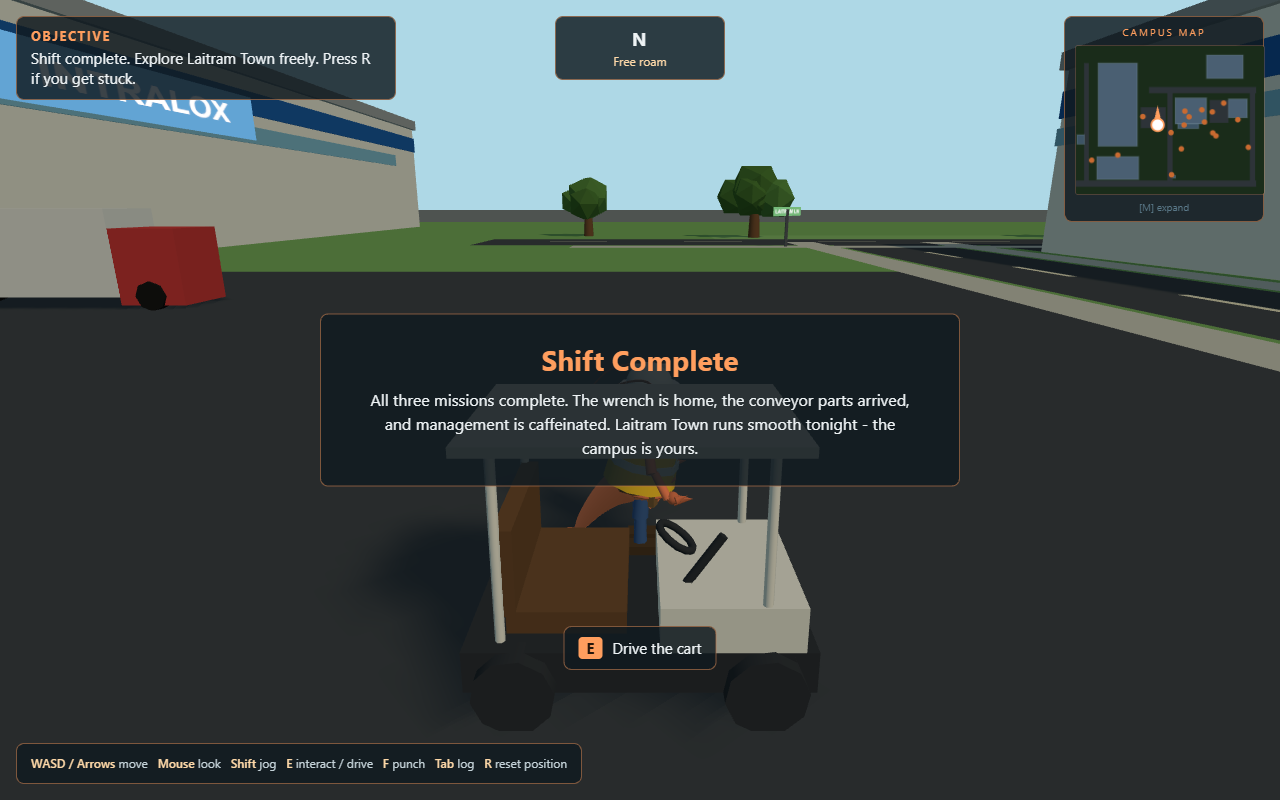
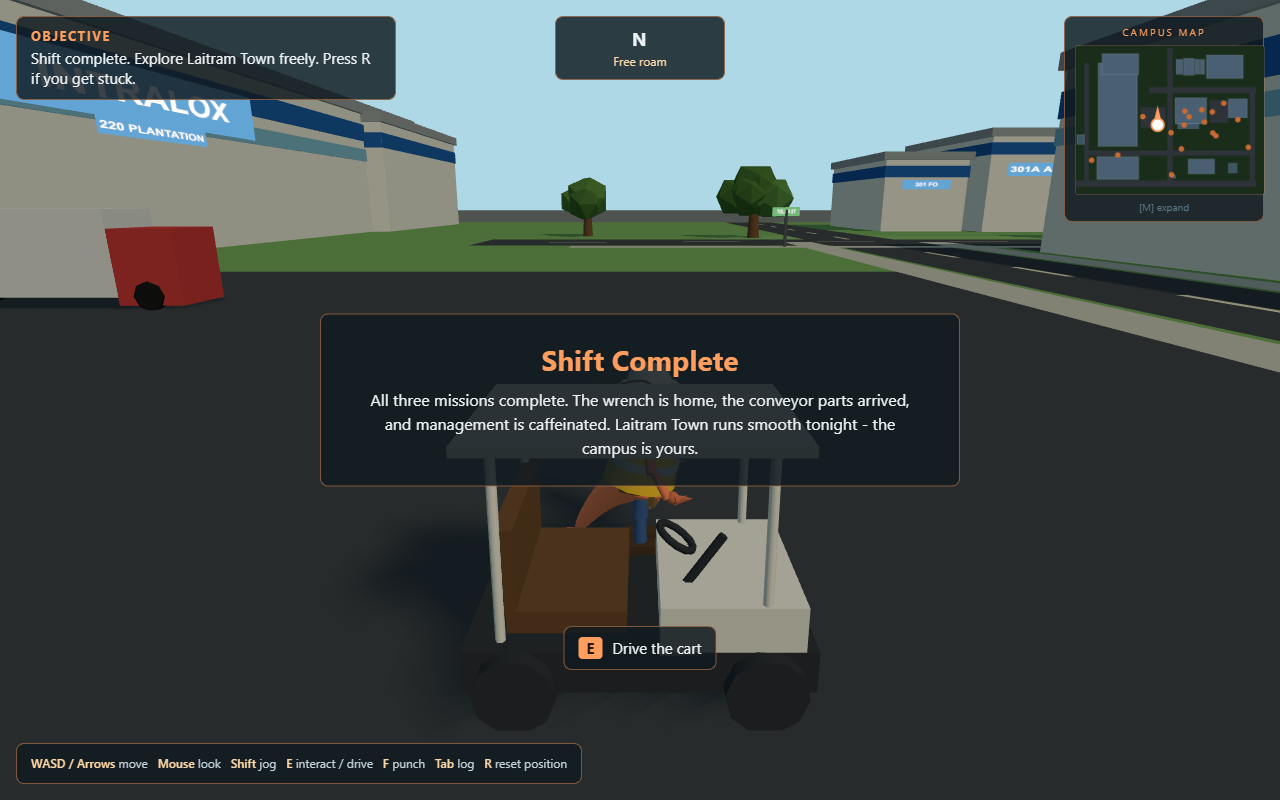
Phase 8: match the real Laitram campus map
Road network renamed and extended per the reference map:
- Toler Street (north E-W, was Laitram Ln), Laitram Lane (east N-S, was
  Storey St), River Road (south, was Plantation St), Plantation Road
  (N-S through campus, was the unnamed main drive), Plantation Drive (west)
- New Storey Street running E-W through the south block
- Plantation Road extended north through the new district

New districts fill previously empty playable space:
- North strip: 5307 Toler (Intralox) and the 301 row - 301 FO, 301A
  Assembly, 301B Shipping (roll-up door + docked truck), 301C ILOX VNA -
  beside Lapeyre Stair, which already matched its real position (5117 Toler)
- South block: 5211 Storey (roll-up doors) and 5123 River Rd

Existing buildings re-signed with real addresses: 220 Plantation
(Intralox plant), 220 Laitram Ln (Laitram Machinery), 201 Laitram Ln
(office), 5000 River Road (distribution), 200 Plantation (was pharmacy);
Lapeyre Stair gains its 5117 Toler address sign. Six street signs placed
at the renamed corners; monument moved out of the new Storey St roadbed,
two oaks relocated off the road.

Minimap roads/buildings/labels fully updated; GAME_DESIGN.md setting
section rewritten (Hammond-site buildings on the reference deliberately
excluded - different campus). Gameplay anchors (mission POIs, NPC spawns,
interior, zones) intentionally unchanged. snap.mjs gains a --map flag.
All 37 verify.mjs checks pass; 34,262 triangles (budget < 100k).

diff --git a/src/map/buildings.js b/src/map/buildings.js
@@ -26,6 +26,40 @@ export function addBuildings(ctx) {
     box(0.4, 5, 6, M.dockDoor, -62.2, 3.2, dz, { castShadow: false });
   }
 
+  // ---- North strip: 5307 Toler and the 301 complex (north of Toler St) ----
+  // Matches the real campus map: 5307 Toler west of Plantation Road, the
+  // 301 production row east of it, with 5117 Toler (Lapeyre Stair) at the
+  // east end of the strip.
+  box(70, 15, 40, M.whiteWall, -95, 7.5, -105, { collide: true }); // 5307 Toler
+  box(71, 1.3, 41, M.roof, -95, 15.65, -105, { castShadow: false });
+  box(70.3, 2, 40.3, M.blueTrim, -95, 12.6, -105, { castShadow: false });
+  for (const rx of [-115, -95, -75]) {
+    box(7, 2.6, 5, M.roof, rx, 17.3, -105);
+  }
+  const n301 = [
+    { x: 18, sx: 12, sz: 28, h: 10 }, // 301 FO
+    { x: 36, sx: 20, sz: 32, h: 13 }, // 301A Assembly
+    { x: 52, sx: 8, sz: 28, h: 10 }, // 301B Shipping
+    { x: 62, sx: 8, sz: 28, h: 10 } // 301C ILOX VNA
+  ];
+  for (const b of n301) {
+    box(b.sx, b.h, b.sz, M.whiteWall, b.x, b.h / 2, -100, { collide: true });
+    box(b.sx + 1, 1.1, b.sz + 1, M.roof, b.x, b.h + 0.55, -100, { castShadow: false });
+    box(b.sx + 0.3, 1.6, b.sz + 0.3, M.blueTrim, b.x, b.h - 1.6, -100, { castShadow: false });
+  }
+  box(6, 2.4, 5, M.roof, 36, 14.4, -104); // 301A rooftop unit
+  // 301B shipping roll-up door facing Toler St.
+  box(5, 4.5, 0.4, M.dockDoor, 52, 2.5, -85.7, { castShadow: false });
+
+  // ---- South block: 5211 Storey and 5123 River Rd (south of Storey St) ----
+  box(50, 11, 28, M.whiteWall, 60, 5.5, 92, { collide: true }); // 5211 Storey
+  box(51, 1.2, 29, M.roof, 60, 11.6, 92, { castShadow: false });
+  box(50.3, 1.8, 28.3, M.blueTrim, 60, 9.2, 92, { castShadow: false });
+  box(8, 6, 0.4, M.dockDoor, 48, 3.2, 78.2, { castShadow: false });
+  box(8, 6, 0.4, M.dockDoor, 72, 3.2, 78.2, { castShadow: false });
+  box(16, 8, 18, M.officeWall, 120, 4, 95, { collide: true }); // 5123 River Rd
+  box(17, 0.9, 19, M.roof, 120, 8.45, 95, { castShadow: false });
+
   // ---- Laitram Machinery complex (center, most detail) ----
   // The shell mesh has no blanket collider: the interior (src/map/interior.js)
   // is walkable. Perimeter colliders below have a gap on the south face
@@ -200,7 +234,7 @@ function addSigns({ world, colliders, M, box, loadingManager }, { lm, hqB, wh })
     world.add(face2);
   };
   monument(-10, 116, 'LAITRAM');
-  monument(14, 62, 'LAITRAM MACHINERY');
+  monument(18, 76, 'LAITRAM MACHINERY'); // SE corner of Plantation Rd / Storey St
 
   // ---- Wall signs ----
   const wallSign = (text, x, y, z, rotY, w = 24, h = 3, bg = '#1f5fa8') => {
@@ -213,25 +247,42 @@ function addSigns({ world, colliders, M, box, loadingManager }, { lm, hqB, wh })
     world.add(s);
   };
   wallSign('INTRALOX', -62.2, 12, -40, Math.PI / 2, 30, 4);
+  wallSign('220 PLANTATION', -62.15, 9.4, -40, Math.PI / 2, 13, 1.3);
   wallSign('SHIPPING', -62.15, 7.2, -4, Math.PI / 2, 12, 1.6, '#b8651f');
   wallSign('LAITRAM MACHINERY', lm.x, 12.4, -40.45, Math.PI, 26, 2.6);
   wallSign('LAITRAM MACHINERY, INC', 35, 6.9, 19.5, 0, 20, 1.8);
   wallSign('RECEIVING', 70.3, 7.2, -20, Math.PI / 2, 12, 1.6, '#b8651f');
+  wallSign('220 LAITRAM LN', 70.3, 5.4, -20, Math.PI / 2, 9, 1.1);
   wallSign('SAFETY FIRST: 412 DAYS SINCE A SHELL INCIDENT', 70.3, 9.6, -20, Math.PI / 2, 22, 1.4, '#2e7d32');
-  wallSign('LAITRAM', 111.8, 7, hqB.z, -Math.PI / 2, 14, 2.4);
+  wallSign('201 LAITRAM LN', 111.8, 7, hqB.z, -Math.PI / 2, 14, 2.4);
   wallSign('LAPEYRE STAIR', 105, 8.5, -77.0, 0, 22, 2.2);
+  wallSign('5117 TOLER', 105, 6.4, -77.0, 0, 10, 1.2);
   wallSign('LAITRAM DISTRIBUTION', wh.x, 9, 72.6, Math.PI, 26, 2.4);
+  wallSign('5000 RIVER ROAD', wh.x, 6.9, 72.6, Math.PI, 15, 1.4);
   wallSign('WEST DOCK', -140.3, 7, 90, -Math.PI / 2, 12, 1.8, '#b8651f');
-  wallSign('LAITRAM PHARMACY', -163.9, 3, 40, Math.PI / 2, 12, 1.4, '#a83a3a');
+  wallSign('200 PLANTATION', -163.9, 3, 40, Math.PI / 2, 12, 1.4);
+  // North strip (faces Toler St).
+  wallSign('INTRALOX', -95, 10.2, -84.7, 0, 26, 3.2);
+  wallSign('5307 TOLER', -95, 7.4, -84.7, 0, 13, 1.5);
+  wallSign('301 FO', 18, 6.6, -85.8, 0, 7, 1.3);
+  wallSign('301A ASSEMBLY', 36, 8.6, -83.8, 0, 15, 1.8);
+  wallSign('301B SHIPPING', 52, 6.6, -85.8, 0, 8, 1.2, '#b8651f');
+  wallSign('301C ILOX VNA', 62, 6.6, -85.8, 0, 8, 1.2);
+  // South block.
+  wallSign('5211 STOREY', 60, 7, 77.7, Math.PI, 16, 2);
+  wallSign('5123 RIVER RD', 120, 6, 85.8, Math.PI, 11, 1.3);
 
   // ---- Street signs ----
   const streetSign = (text, x, z, rotY) => {
     box(0.25, 3.4, 0.25, M.signPost, x, 1.7, z);
     wallSign(text, x, 3.2, z, rotY, 4.5, 0.8, '#2e7d32');
   };
-  streetSign('LAITRAM LN', -10, -47, Math.PI / 4);
-  streetSign('STOREY ST', 150, -47, -Math.PI / 4);
-  streetSign('PLANTATION ST', 16, 117, Math.PI / 4);
+  streetSign('TOLER ST', -10, -47, Math.PI / 4);
+  streetSign('LAITRAM LN', 150, -47, -Math.PI / 4);
+  streetSign('RIVER ROAD', 16, 117, Math.PI / 4);
+  streetSign('STOREY ST', -12, 59, Math.PI / 4);
+  streetSign('STOREY ST', 148, 59, -Math.PI / 4);
+  streetSign('PLANTATION RD', 8, 74, Math.PI / 4);
 
   // ---- Image signs ----
   // Each sign is a dark-framed billboard on two posts that loads a WebP texture.

diff --git a/src/minimap.js b/src/minimap.js
@@ -9,24 +9,33 @@ const WH = WORLD.maxZ - WORLD.minZ; // 285
 
 // Road rectangles [centerX, centerZ, sizeX, sizeZ].
 const ROADS = [
-  [0,      35,   10, 180], // Main campus drive
-  [62.5,  -55,  205,  12], // Laitram Lane
-  [-7.5,  125,  345,  12], // Plantation St
-  [158,   37.5,  10, 185], // Storey St
-  [-160,    9,    9, 232], // West street
+  [0,      35,   10, 180], // Plantation Road
+  [0,     -97,   10,  78], // Plantation Road north extension
+  [62.5,  -55,  205,  12], // Toler Street
+  [2,      66,  320,  10], // Storey Street
+  [-7.5,  125,  345,  12], // River Road
+  [158,   37.5,  10, 185], // Laitram Lane
+  [-160,    9,    9, 232], // Plantation Drive
   [-32,    -2,   48,  40], // Intralox shipping apron
   [94,    -14,   36,  44], // LM east truck court
 ];
 
 // Buildings [centerX, centerZ, sizeX, sizeZ, fill].
 const BUILDINGS = [
-  { cx: -100, cz:  -27, sx: 75,  sz: 160, color: '#4a5f72' }, // Intralox Plant
-  { cx:   40, cz:  -15, sx: 60,  sz:  50, color: '#4a5f72' }, // Laitram Machinery
+  { cx: -100, cz:  -27, sx: 75,  sz: 160, color: '#4a5f72' }, // Intralox / 220 Plantation
+  { cx:  -95, cz: -105, sx: 70,  sz:  40, color: '#4a5f72' }, // 5307 Toler
+  { cx:   18, cz: -100, sx: 12,  sz:  28, color: '#4a5f72' }, // 301 FO
+  { cx:   36, cz: -100, sx: 20,  sz:  32, color: '#4a5f72' }, // 301A Assembly
+  { cx:   52, cz: -100, sx:  8,  sz:  28, color: '#4a5f72' }, // 301B Shipping
+  { cx:   62, cz: -100, sx:  8,  sz:  28, color: '#4a5f72' }, // 301C ILOX VNA
+  { cx:   40, cz:  -15, sx: 60,  sz:  50, color: '#4a5f72' }, // Laitram Machinery / 220 Laitram Ln
   { cx:   35, cz: 14.5, sx: 40,  sz:   9, color: '#3d5465' }, // LM office annex
-  { cx:  130, cz:  -20, sx: 36,  sz:  36, color: '#4a5f72' }, // Laitram Office
-  { cx:  105, cz: -100, sx: 70,  sz:  45, color: '#4a5f72' }, // Lapeyre Stair
-  { cx: -100, cz:   95, sx: 80,  sz:  44, color: '#4a5f72' }, // Distribution Warehouse
-  { cx: -171, cz:   40, sx: 14,  sz:  18, color: '#3d5465' }, // Laitram Pharmacy
+  { cx:  130, cz:  -20, sx: 36,  sz:  36, color: '#4a5f72' }, // 201 Laitram Ln
+  { cx:  105, cz: -100, sx: 70,  sz:  45, color: '#4a5f72' }, // Lapeyre Stair / 5117 Toler
+  { cx:   60, cz:   92, sx: 50,  sz:  28, color: '#4a5f72' }, // 5211 Storey
+  { cx:  120, cz:   95, sx: 16,  sz:  18, color: '#3d5465' }, // 5123 River Rd
+  { cx: -100, cz:   95, sx: 80,  sz:  44, color: '#4a5f72' }, // Distribution / 5000 River Road
+  { cx: -171, cz:   40, sx: 14,  sz:  18, color: '#3d5465' }, // 200 Plantation
   { cx:    8, cz:  112, sx:  5,  sz:   5, color: '#3d5465' }, // Guard Shack
 ];
 
@@ -44,15 +53,17 @@ const ROOMS = [
 
 // Zone text labels drawn only in the expanded view.
 const ZONES = [
-  { wx: -100, wz:  -27, text: 'INTRALOX' },
+  { wx: -100, wz:  -27, text: 'INTRALOX\n220 PLANTATION' },
+  { wx:  -95, wz: -105, text: '5307\nTOLER' },
+  { wx:   40, wz: -100, text: '301\nASSEMBLY' },
   { wx:   40, wz:  -15, text: 'LAITRAM\nMACHINERY' },
-  { wx:  130, wz:  -20, text: 'LAITRAM\nOFFICE' },
+  { wx:  130, wz:  -20, text: '201\nLAITRAM LN' },
   { wx:  105, wz: -100, text: 'LAPEYRE\nSTAIR' },
-  { wx: -100, wz:   95, text: 'DISTRIBUTION\nWAREHOUSE' },
-  { wx: -171, wz:   40, text: 'PHARMACY' },
+  { wx:   60, wz:   92, text: '5211\nSTOREY' },
+  { wx: -100, wz:   95, text: '5000 RIVER RD\nDISTRIBUTION' },
+  { wx: -171, wz:   40, text: '200\nPLANTATION' },
   { wx:    8, wz:  112, text: 'GUARD\nSHACK' },
   { wx:   85, wz:   30, text: 'BREAK\nAREA' },
-  { wx:    2, wz:   62, text: 'MAIN\nGATE' },
 ];
 
 export class Minimap {

diff --git a/src/map/terrain.js b/src/map/terrain.js
@@ -63,16 +63,20 @@ function addTerrain({ colliders, M, box, flat }) {
   // ---- Ground ----
   flat(380, 305, M.grass, 0, 0, 0);
 
-  // ---- Roads ----
-  // Plantation St along the south edge.
+  // ---- Roads (named per the real campus map) ----
+  // River Road along the south edge.
   flat(345, 12, M.asphalt, -7.5, 125, 0.04);
-  // Laitram Lane: east-west, north of the Laitram Machinery building.
+  // Toler Street: east-west along the north side of the main block.
   flat(205, 12, M.asphalt, 62.5, -55, 0.04);
-  // Main campus drive: north-south between Intralox and Laitram Machinery.
+  // Plantation Road: north-south through the middle of campus.
   flat(10, 180, M.asphalt, 0, 35, 0.04);
-  // Storey St along the east side.
+  // Plantation Road north extension, up through the 301/5307 district.
+  flat(10, 78, M.asphalt, 0, -97, 0.04);
+  // Storey Street: east-west through the middle of the south block.
+  flat(320, 10, M.asphalt, 2, 66, 0.04);
+  // Laitram Lane along the east side.
   flat(10, 185, M.asphalt, 158, 37.5, 0.04);
-  // West street alongside Intralox, down to the pharmacy corner.
+  // Plantation Drive along the west edge, down to the 200 Plantation corner.
   flat(9, 232, M.asphalt, -160, 9, 0.04);
 
   // Truck aprons and drive lanes (concrete-toned asphalt pads).
@@ -84,7 +88,9 @@ function addTerrain({ colliders, M, box, flat }) {
 
   // Road center lines.
   for (let z = 118; z > -48; z -= 14) flat(0.5, 6, M.roadLine, 0, z, 0.06);
+  for (let z = -64; z > -134; z -= 14) flat(0.5, 6, M.roadLine, 0, z, 0.06);
   for (let x = -30; x < 160; x += 14) flat(6, 0.5, M.roadLine, x, -55, 0.06);
+  for (let x = -150; x < 160; x += 14) flat(6, 0.5, M.roadLine, x, 66, 0.06);
   for (let x = -172; x < 160; x += 14) flat(6, 0.5, M.roadLine, x, 125, 0.06);
   for (let z = -46; z < 122; z += 14) flat(0.5, 6, M.roadLine, 158, z, 0.06);
 

diff --git a/src/map/landscaping.js b/src/map/landscaping.js
@@ -77,9 +77,9 @@ export function addLandscaping(ctx) {
     colliders.push(makeCollider(x, z, 1, 1));
   };
 
-  // Oaks along the main drive and streets.
-  oak(-12, 70, 1.1);
-  oak(12, 70, 1);
+  // Oaks along the main drive and streets (clear of the Storey St roadbed).
+  oak(-12, 78, 1.1);
+  oak(12, 78, 1);
   oak(-12, 95, 1.2);
   oak(12, 95, 1.1);
   oak(-40, 112, 1.2);

diff --git a/src/map/props.js b/src/map/props.js
@@ -64,6 +64,8 @@ export function addProps(ctx) {
   addTruck(world, colliders, 84, -25, Math.PI / 2);
   // At the warehouse west dock.
   addTruck(world, colliders, -160, 70, 0, 0xc23b3b);
+  // Backed up to the 301B shipping door on Toler St.
+  addTruck(world, colliders, 52, -79.5, 0, 0x3b6a9a);
   addForklift(world, colliders, 94, -2);
 
   // ---- Parking lots (paving, stripes, wheel stops, parked cars) ----

diff --git a/docs/GAME_DESIGN.md b/docs/GAME_DESIGN.md
@@ -12,17 +12,26 @@ shrimp doing real workplace things, in a real-ish place, with light comedy and w
 
 The map is loosely based on the actual Laitram LLC / Intralox campus on Plantation Road, Harahan, Louisiana.
 
-Key landmarks modeled in-game:
-- **Intralox Plant** — large manufacturing building on the west side
-- **Laitram Machinery** — center building with loading docks and a receiving bay
-- **Laitram Office** — smaller office building on the east side
-- **Lapeyre Stair** — northeast building
-- **Distribution Warehouse** — southwest warehouse with roll-up doors
+Key landmarks modeled in-game (addresses follow the real campus map):
+- **Intralox Plant (220 Plantation)** — large manufacturing building on the west side, shipping dock
+- **5307 Toler** — Intralox building in the north strip, west of Plantation Road
+- **301 complex** — 301 FO / 301A Assembly / 301B Shipping / 301C ILOX VNA, north strip row
+- **Laitram Machinery (220 Laitram Ln)** — center building with receiving bay and walkable interior
+- **201 Laitram Ln** — office building on the east side
+- **Lapeyre Stair (5117 Toler)** — northeast building, east end of the north strip
+- **5211 Storey** — production building in the south block
+- **5123 River Rd** — small building, southeast block
+- **Distribution Warehouse (5000 River Road)** — southwest warehouse with roll-up doors
+- **200 Plantation** — small building, far southwest corner
 - **Guard shack** — campus entrance gate
 - **Break pavilion** — outdoor break area with benches and vending
 - **Drainage canal** — east side, impassable
 
-Roads: Plantation St (south), Laitram Lane (center E-W), Storey St (east), main campus drive (N-S).
+Roads (per the real map): Toler Street (north E-W), Plantation Road (N-S through campus),
+Storey Street (center E-W), Laitram Lane (east N-S), River Road (south), Plantation Drive (west edge).
+
+Note: Hammond West / East Expansion / ASRS on the reference map are the separate Hammond, LA
+site (20157 Intralox Drive) and are intentionally not part of this campus.
 
 Future: The Laitram Machinery building will have a walkable interior with an office floor, cubicles, a
 breakroom, and hallways.

diff --git a/docs/ROADMAP.md b/docs/ROADMAP.md
@@ -19,6 +19,7 @@ without breaking browser performance or requiring a full rewrite.
 | 5 | NPC & Workplace Interactions | More NPCs, sitting behaviors, intern dialogue | M | Done |
 | 6 | GTA-Like Mechanics | Basic melee punch + driveable golf cart | M | Done |
 | 7 | Polish & Deploy | Loading screen, audio, mission log, minimap indoor floors, performance audit | M | Done |
+| 8 | Campus Accuracy | Match the real campus map: road names, north strip (5307 Toler + 301 row), south block (5211 Storey), real addresses | S | Done |
 
 ---
 